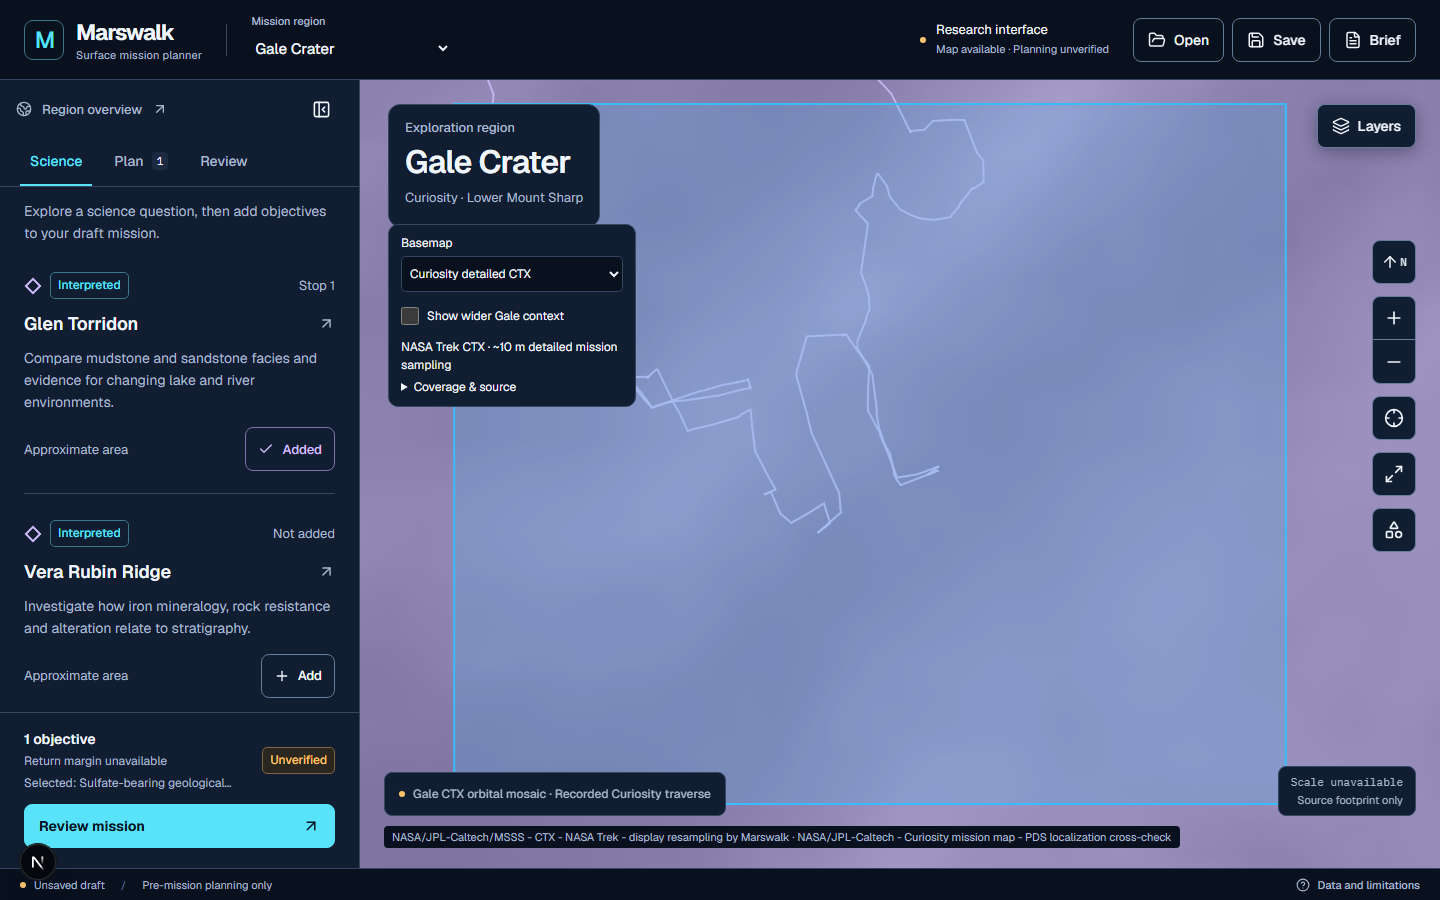
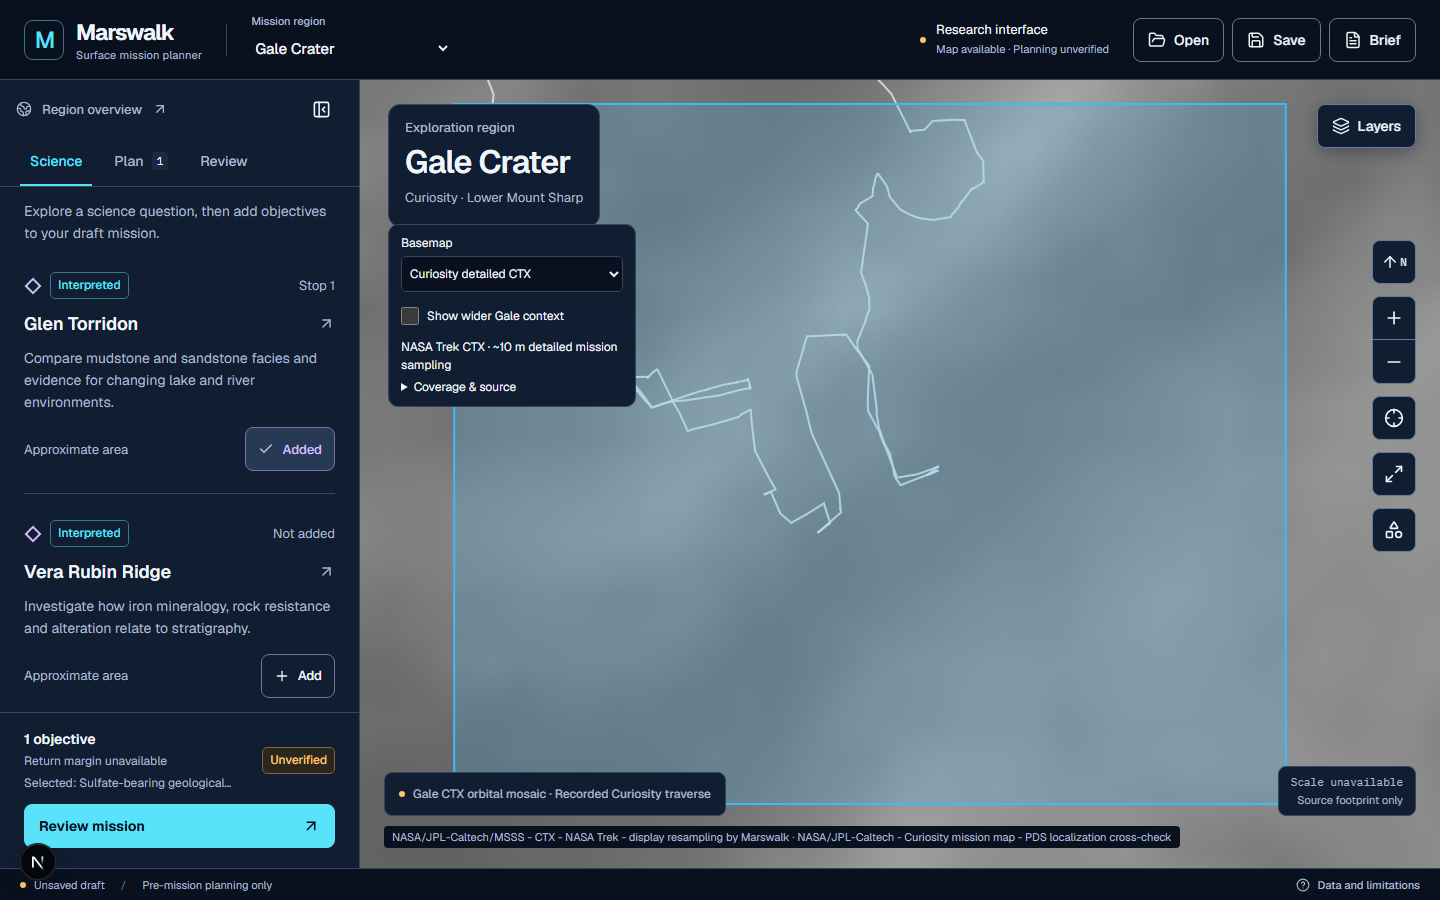
feat(gale): synchronize objective area visibility with mission plan additions and removals

diff --git a/components/map/map-workspace.tsx b/components/map/map-workspace.tsx
@@ -27,7 +27,6 @@ import { fitOverview, fitInitialView, fitLayerCoverage, fitObjectiveArea } from 
 import { registerScientificClip } from "@/lib/map/scientific-clip";
 import {
   mountObjectiveAreaLayers,
-  updateObjectiveAreaSelection,
   removeObjectiveAreaLayers,
   setObjectiveAreasVisibility,
 } from "@/lib/map/objective-area-layers";
@@ -119,10 +118,20 @@ export default function MapWorkspace({
   const handledTargetAreaFocus = useRef<number | null>(null);
   const previousLayers = useRef<{ region: string; visible: Set<string> } | null>(null);
   const [ready, setReady] = useState(false);
-  const [showObjectiveAreas, setShowObjectiveAreas] = useState(true);
+  const [showAllObjectiveAreas, setShowAllObjectiveAreas] = useState(false);
+  const previousStops = useRef<string[]>(stops);
   const [loadedMap, setLoadedMap] = useState<MapInstance | null>(null);
   const [failed, setFailed] = useState(false);
   const scientificMap = region.map.visualization.status === "available";
+
+  useEffect(() => {
+    // When an objective is removed from the plan, ensure showAllObjectiveAreas is turned off
+    // so that the removed objective's area is guaranteed not to be shown!
+    if (stops.length < previousStops.current.length && showAllObjectiveAreas) {
+      setShowAllObjectiveAreas(false);
+    }
+    previousStops.current = stops;
+  }, [stops, showAllObjectiveAreas]);
   const resetView = useCallback((animate = false, initial = false) => {
     if (!map.current || !container.current) return;
     overview.current = initial ? "initial" : "mission";
@@ -283,22 +292,39 @@ export default function MapWorkspace({
   useEffect(() => {
     if (!ready || !map.current || preview || !scientificMap) return;
     const instance = map.current;
-    mountObjectiveAreaLayers(instance, region, selected, onInspect);
-    setObjectiveAreasVisibility(instance, showObjectiveAreas);
+    const focusedTargetId =
+      targetAreaFocus?.region_id === region.id ? targetAreaFocus.target_id : null;
+    mountObjectiveAreaLayers(
+      instance,
+      region,
+      selected,
+      onInspect,
+      stops,
+      showAllObjectiveAreas,
+      focusedTargetId,
+    );
+    const hasVisibleAreas =
+      showAllObjectiveAreas ||
+      region.targets.some(
+        (t) =>
+          t.boundary?.status === "available" &&
+          (stops.includes(t.id) || t.id === focusedTargetId),
+      );
+    setObjectiveAreasVisibility(instance, hasVisibleAreas);
     return () => {
       removeObjectiveAreaLayers(instance);
     };
-  }, [ready, region, preview, scientificMap, onInspect, showObjectiveAreas, selected]);
-
-  useEffect(() => {
-    if (!ready || !map.current || preview || !scientificMap) return;
-    updateObjectiveAreaSelection(map.current, selected);
-  }, [ready, selected, preview, scientificMap]);
-
-  useEffect(() => {
-    if (!ready || !map.current || preview || !scientificMap) return;
-    setObjectiveAreasVisibility(map.current, showObjectiveAreas);
-  }, [ready, showObjectiveAreas, preview, scientificMap]);
+  }, [
+    ready,
+    region,
+    preview,
+    scientificMap,
+    onInspect,
+    showAllObjectiveAreas,
+    selected,
+    stops,
+    targetAreaFocus,
+  ]);
 
   useEffect(() => {
     if (!ready || !container.current || !map.current) return;
@@ -792,14 +818,14 @@ export default function MapWorkspace({
         )}
         {scientificMap && !preview && (
           <button
-            className={`icon-button ${showObjectiveAreas ? "active" : ""}`}
-            onClick={() => setShowObjectiveAreas(!showObjectiveAreas)}
+            className={`icon-button ${showAllObjectiveAreas ? "active" : ""}`}
+            onClick={() => setShowAllObjectiveAreas(!showAllObjectiveAreas)}
             disabled={!ready || failed}
             aria-label={
-              showObjectiveAreas ? "Hide objective areas" : "Show objective areas"
+              showAllObjectiveAreas ? "Hide objective areas" : "Show objective areas"
             }
             title={
-              showObjectiveAreas ? "Hide objective areas" : "Show objective areas"
+              showAllObjectiveAreas ? "Hide objective areas" : "Show objective areas"
             }
           >
             <Shapes size={20} />

diff --git a/lib/map/objective-area-layers.ts b/lib/map/objective-area-layers.ts
@@ -61,11 +61,25 @@ function toDisplayGeometry(
 export function createObjectiveAreasGeoJSON(
   region: RegionManifest,
   selectedTargetId: string | null,
+  stops?: string[],
+  showAll: boolean = false,
+  focusedTargetId?: string | null,
 ): GeoJSON.FeatureCollection {
   const targetsWithBoundary = region.targets.filter(hasAvailableBoundary);
+  // If stops is omitted (undefined), default to showing all for backwards compatibility
+  // If stops is provided, only show targets that are in stops or explicitly focused, unless showAll is true
+  const visibleTargets =
+    stops === undefined || showAll
+      ? targetsWithBoundary
+      : targetsWithBoundary.filter(
+          (target) =>
+            stops.includes(target.id) ||
+            (focusedTargetId && target.id === focusedTargetId),
+        );
+
   return {
     type: "FeatureCollection",
-    features: targetsWithBoundary.map((target) => ({
+    features: visibleTargets.map((target) => ({
       type: "Feature",
       id: target.id,
       properties: {
@@ -73,6 +87,7 @@ export function createObjectiveAreasGeoJSON(
         title: target.title,
         classification: target.boundary.classification,
         selected: selectedTargetId === target.id,
+        added: stops ? stops.includes(target.id) : true,
       },
       geometry: toDisplayGeometry(target.boundary.geometry),
     })),
@@ -89,14 +104,47 @@ const mapListeners = new WeakMap<
   }
 >();
 
+export function updateObjectiveAreasData(
+  map: MapInstance,
+  region: RegionManifest,
+  selectedTargetId: string | null,
+  stops?: string[],
+  showAll: boolean = false,
+  focusedTargetId?: string | null,
+) {
+  const existingSource = map.getSource(OBJECTIVE_AREAS_SOURCE_ID) as
+    | GeoJSONSource
+    | undefined;
+  if (existingSource) {
+    const data = createObjectiveAreasGeoJSON(
+      region,
+      selectedTargetId,
+      stops,
+      showAll,
+      focusedTargetId,
+    );
+    existingSource.setData(data);
+    updateObjectiveAreaSelection(map, selectedTargetId);
+  }
+}
+
 export function mountObjectiveAreaLayers(
   map: MapInstance,
   region: RegionManifest,
   selectedTargetId: string | null,
   onInspectTarget: (targetId: string) => void,
+  stops?: string[],
+  showAll: boolean = false,
+  focusedTargetId?: string | null,
 ) {
   // If source already exists, update data
-  const data = createObjectiveAreasGeoJSON(region, selectedTargetId);
+  const data = createObjectiveAreasGeoJSON(
+    region,
+    selectedTargetId,
+    stops,
+    showAll,
+    focusedTargetId,
+  );
   const existingSource = map.getSource(OBJECTIVE_AREAS_SOURCE_ID) as
     | GeoJSONSource
     | undefined;

diff --git a/tests/gale-objectives.test.ts b/tests/gale-objectives.test.ts
@@ -294,6 +294,56 @@ test("MapLibre GeoJSON generator produces valid FeatureCollection for Gale and e
   assert.equal(oxiaGeojson.features.length, 0);
 });
 
+test("Objective area visibility: added objectives are shown, removed objectives are hidden", () => {
+  const gale = getRegion("gale")!;
+
+  // 1. Initial empty plan with showAll=false -> 0 areas shown
+  const emptyGeojson = createObjectiveAreasGeoJSON(gale, null, [], false);
+  assert.equal(emptyGeojson.features.length, 0);
+
+  // 2. Add Gediz Vallis -> only Gediz Vallis is shown
+  const oneAdded = createObjectiveAreasGeoJSON(gale, null, ["gale-gediz-vallis"], false);
+  assert.equal(oneAdded.features.length, 1);
+  assert.equal(oneAdded.features[0].properties?.id, "gale-gediz-vallis");
+  assert.equal(oneAdded.features[0].properties?.added, true);
+
+  // 3. Add Glen Torridon -> both are shown
+  const twoAdded = createObjectiveAreasGeoJSON(
+    gale,
+    null,
+    ["gale-gediz-vallis", "gale-glen-torridon"],
+    false,
+  );
+  assert.equal(twoAdded.features.length, 2);
+  const ids = twoAdded.features.map((f) => f.properties?.id);
+  assert.ok(ids.includes("gale-gediz-vallis"));
+  assert.ok(ids.includes("gale-glen-torridon"));
+
+  // 4. Remove Gediz Vallis -> Gediz Vallis is NOT shown, only Glen Torridon
+  const removedGediz = createObjectiveAreasGeoJSON(gale, null, ["gale-glen-torridon"], false);
+  assert.equal(removedGediz.features.length, 1);
+  assert.equal(removedGediz.features[0].properties?.id, "gale-glen-torridon");
+
+  // 5. Remove all -> 0 areas shown
+  const removedAll = createObjectiveAreasGeoJSON(gale, null, [], false);
+  assert.equal(removedAll.features.length, 0);
+
+  // 6. User toggles showAll=true -> all 4 areas shown even with empty stops
+  const showAllGeojson = createObjectiveAreasGeoJSON(gale, null, [], true);
+  assert.equal(showAllGeojson.features.length, 4);
+
+  // 7. Focused target via fit-to-area is visible even if not in stops
+  const focusedGeojson = createObjectiveAreasGeoJSON(
+    gale,
+    null,
+    [],
+    false,
+    "gale-gediz-vallis",
+  );
+  assert.equal(focusedGeojson.features.length, 1);
+  assert.equal(focusedGeojson.features[0].properties?.id, "gale-gediz-vallis");
+});
+
 test("Region isolation: Jezero and Oxia remain strictly unaffected and reject Gale targets", () => {
   const jezero = getRegion("jezero")!;
   const oxia = getRegion("oxia")!;

diff --git a/tests/browser/gale-objectives.spec.ts b/tests/browser/gale-objectives.spec.ts
@@ -134,6 +134,15 @@ test.describe("G-S2: Gale Scientific Objective Cleanup and Geographic Verificati
     // Switch back to Science and capture Gale overview with area
     await page.getByRole("button", { name: "Science", exact: true }).click();
     await settle(page);
+
+    // 12. Test removing the objective from the plan hides its area
+    await page.getByRole("button", { name: "Remove Glen Torridon", exact: true }).click();
+    await settle(page);
+    await expect(page.getByRole("button", { name: "Add Glen Torridon", exact: true })).toBeVisible();
+
+    // Re-add to plan and capture Gale overview with area
+    await page.getByRole("button", { name: "Add Glen Torridon", exact: true }).click();
+    await settle(page);
     await page.screenshot({ path: `${outDir}/gale-overview-objectives.png` });
 
     expect(errors).toEqual([]);

diff --git a/docs/GALE_SCIENCE_OBJECTIVE_VERIFICATION_REPORT.md b/docs/GALE_SCIENCE_OBJECTIVE_VERIFICATION_REPORT.md
@@ -109,21 +109,18 @@ In this milestone:
 
 ### 4.3 MapLibre GL JS Overlay System (`lib/map/objective-area-layers.ts`, `components/map/map-workspace.tsx`)
 - **Source:** Dedicated GeoJSON source `'scientific-objective-areas'` containing active region targets with available boundary geometries.
+- **Dynamic Plan-Based Visibility:**
+  - Objective areas are dynamically filtered by mission itinerary stops (`stops.includes(target.id)`).
+  - When an objective is added from the left panel, its area polygon immediately appears on the map.
+  - When an objective is removed from the plan, its area polygon is immediately removed from the map.
+  - The `Shapes` toggle button on the right side acts as an overview control: when activated, all objective areas in Gale are shown for exploration; when deactivated, only the planned objectives' areas are shown.
 - **Fill Layer:** `scientific-objective-areas-fill` with semi-transparent classification colors (`#38bdf8` for mapped, `#fbbf24` for approximate, `#a78bfa` for candidate), interactive pointer hover, and click-to-inspect handler.
 - **Outlines:** Distinct line layers for each classification:
   - Solid line for `mapped`
   - Dashed line `[3, 2]` for `approximate`
   - Dotted line `[1, 2]` for `candidate`
   - High-contrast white outline `[2, 1]` for `selected`
-- **Visibility Toggle:** User control button with `Shapes` icon in map workspace header to toggle objective area overlays without disturbing CTX basemap or other layers.
 - **Fit to Area Camera Action:** `fitObjectiveArea` in `lib/map/camera.ts` smoothly pans and zooms the camera to the target's bounding box using responsive padding.
-
-### 4.4 Waypoint Safety Guards (`lib/mission/model.ts`, `components/science/catalog.tsx`)
-- Geological area objectives display an explicit notice:
-  > **Not an automatic waypoint**  
-  > *Geological areas represent regional formations or landing features, not discrete rover stopping points. To include this area in a traverse, add manual waypoints within or near the boundary.*
-- When an area objective is added to a mission itinerary, it is marked as `Location unverified` in the Plan editor.
-- The route planning engine flags: `"Selected objectives need verified target coordinates and routing eligibility before routing."`
 
 ---
 
@@ -132,24 +129,25 @@ In this milestone:
 ### 5.1 Automated Test Suite
 - **Unit & System Tests:** `npx tsx --test tests/*.test.ts`
   - Total test suites: **60**
-  - Total passed tests: **355**
+  - Total passed tests: **356**
   - Total failed tests: **0**
-- **Gale Objectives Dedicated Suite (`tests/gale-objectives.test.ts`):** 8/8 passed:
+- **Gale Objectives Dedicated Suite (`tests/gale-objectives.test.ts`):** 9/9 passed:
   1. Active catalog excludes retired scenario objectives (exactly 4 targets present).
   2. Retired targets can be looked up for backward compatibility.
   3. Saved mission parser loads legacy plans with retired targets safely.
   4. All active Gale targets have valid GeoJSON area geometries and extents within mission bounds.
   5. Three primary location representations strictly validated.
-  6. Geological areas are not automatic point waypoints.
+  6. Waypoint safety: geological area targets cannot be converted into point waypoints.
   7. MapLibre GeoJSON feature collection accurately generated.
-  8. Region isolation verified (Gale areas never leak to Jezero or Oxia).
+  8. Objective area visibility: added objectives are shown, removed objectives are hidden, overview toggle reveals all.
+  9. Region isolation verified (Gale areas never leak to Jezero or Oxia).
 - **TypeScript Typecheck:** `npm run typecheck` — 0 errors.
 - **ESLint:** `npm run lint` — 0 errors.
 - **Next.js Production Build:** `npx next build --webpack` — Compiled successfully (exit code 0).
 
 ### 5.2 Browser Acceptance Suite (`tests/browser/gale-objectives.spec.ts`)
 Executed with Playwright against Next.js production/dev runtime:
-- **Test 1 (Desktop 1440x900):** Passed (14.5s)
+- **Test 1 (Desktop 1440x900):** Passed (14.9s)
   - Scenario objectives completely absent from catalog.
   - Exactly 4 interpreted geological area targets present.
   - Inspected Gediz Vallis: verified `Mapped extent`, `Interpreted`, `±5 m`, independent verification dimensions (Source, Processing, Registration), and "Not an automatic waypoint" notice.
@@ -157,12 +155,14 @@ Executed with Playwright against Next.js production/dev runtime:
   - Objective areas visibility toggle button toggles without regression.
   - Inspected Glen Torridon (`Approximate area`, `±50 m`).
   - Inspected Sulfate-bearing units (`Candidate search region`, `±100 m`).
-  - Added Glen Torridon to itinerary: verified `Location unverified` status in Plan editor and route guard issue in Review tab.
-- **Test 2 (Region Switching Isolation):** Passed (9.3s)
+  - Added Glen Torridon to itinerary: verified area appears on map, `Location unverified` status in Plan editor, and route guard issue in Review tab.
+  - Removed Glen Torridon from itinerary: verified area is removed from map.
+  - Re-added to itinerary: verified area cleanly reappears on map.
+- **Test 2 (Region Switching Isolation):** Passed (8.5s)
   - Switched Gale -> Jezero: Gale targets absent from Jezero catalog.
   - Switched Jezero -> Oxia: Oxia targets present, Gale targets absent.
   - Switched Oxia -> Gale: Gale catalog and area overlays cleanly restored.
-- **Test 3 (Mobile 390x844):** Passed (5.1s)
+- **Test 3 (Mobile 390x844):** Passed (3.6s)
   - Responsive sheet handle interaction verified.
   - Catalog and target details render cleanly without overflow or visual truncation.
 
